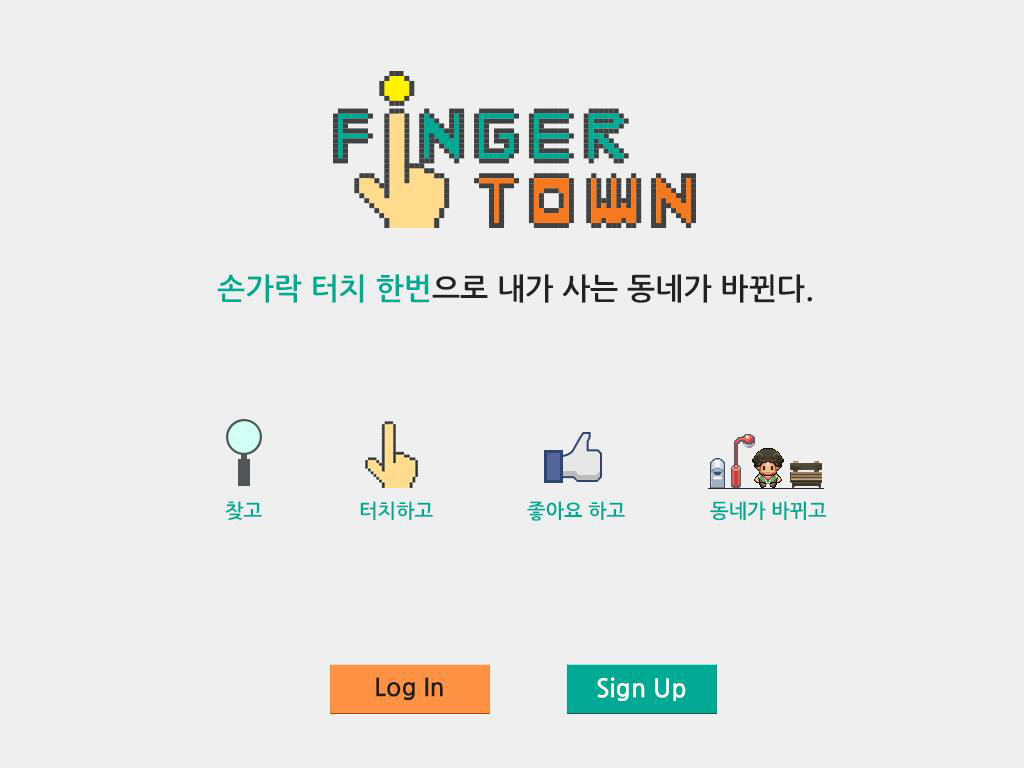
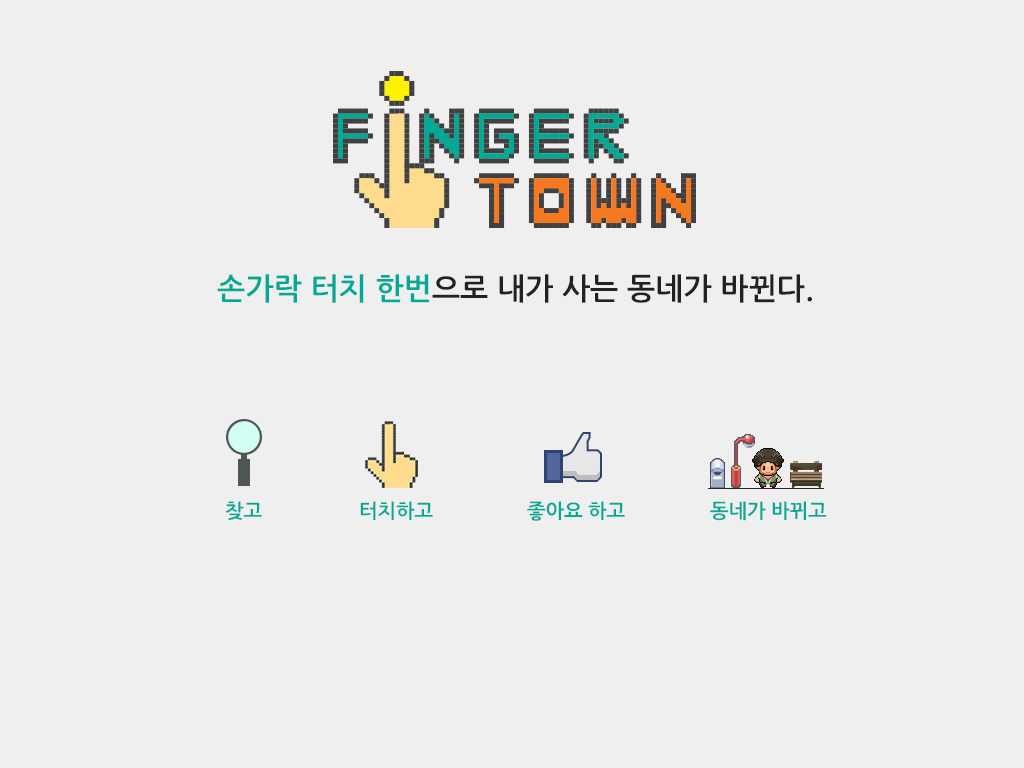
* missing trashcan file * startup screen changed

diff --git a/js/gui.js b/js/gui.js
@@ -1,42 +1,34 @@
-game.LoginButton = me.GUI_Object.extend(
-{	
-	init:function(x, y)
-	{
+game.LoginButton = me.GUI_Object.extend({
+	init : function(x, y) {
 		console.log("loginbutton");
 		settings = {}
 		settings.image = "loginBtn";
 		settings.spritewidth = 160;
-		settings.spriteheight = 54;
+		settings.spriteheight = 50;
 		settings.x = x;
 		settings.y = y;
-	
-
 
 		// parent constructor
 		this.parent(x, y, settings);
 	},
-	onClick: function() {
+	onClick : function() {
 		console.log("click button");
 	}
 });
 
-game.SignupButton = me.GUI_Object.extend(
-		{	
-			init:function(x, y)
-			{
-				settings = {}
-				settings.image = "signupBtn";
-				settings.spritewidth = 152;
-				settings.spriteheight = 52;
-				settings.x = x;
-				settings.y = y;
-			
+game.SignupButton = me.GUI_Object.extend({
+	init : function(x, y) {
+		settings = {}
+		settings.image = "signupBtn";
+		settings.spritewidth = 150;
+		settings.spriteheight = 50;
+		settings.x = x;
+		settings.y = y;
 
-
-				// parent constructor
-				this.parent(x, y, settings);
-			},
-			onClick: function() {
-				game.characterWindow.show();
-			}
-		});
+		// parent constructor
+		this.parent(x, y, settings);
+	},
+	onClick : function() {
+		game.characterWindow.show();
+	}
+});

diff --git a/js/entities.js b/js/entities.js
@@ -386,7 +386,7 @@ game.GovermentEntity = me.ObjectEntity.extend({
     context : null,
     removeMe: false,
     init: function(x, y, settings) {
-    	console.log("govplayer",settings);
+    	
     	this.startPos = {x: x, y: y};
     	this.settings = settings;
     	//this.parent(0,0, settings);
@@ -411,7 +411,7 @@ game.GovermentEntity = me.ObjectEntity.extend({
 		this.renderable.addAnimation("right", [1]);
 		
 
-
+		this.renderable.setCurrentAnimation('down');
     },
     
     moveToUser: function() {
@@ -605,7 +605,7 @@ game.Goverment = Object.extend({
         var settings = {};
         settings.image = "govermentPlayer"
         settings.spritewidth = 32;
-        settings.spriteheight = 32;
+        settings.spriteheight = 42;
         settings.name = "govermentPlayer";
         settings.width = 48;
         // console.log("npcData.coordenadas[0].initStartX:", npcData.coordenadas[0].initStartX);
